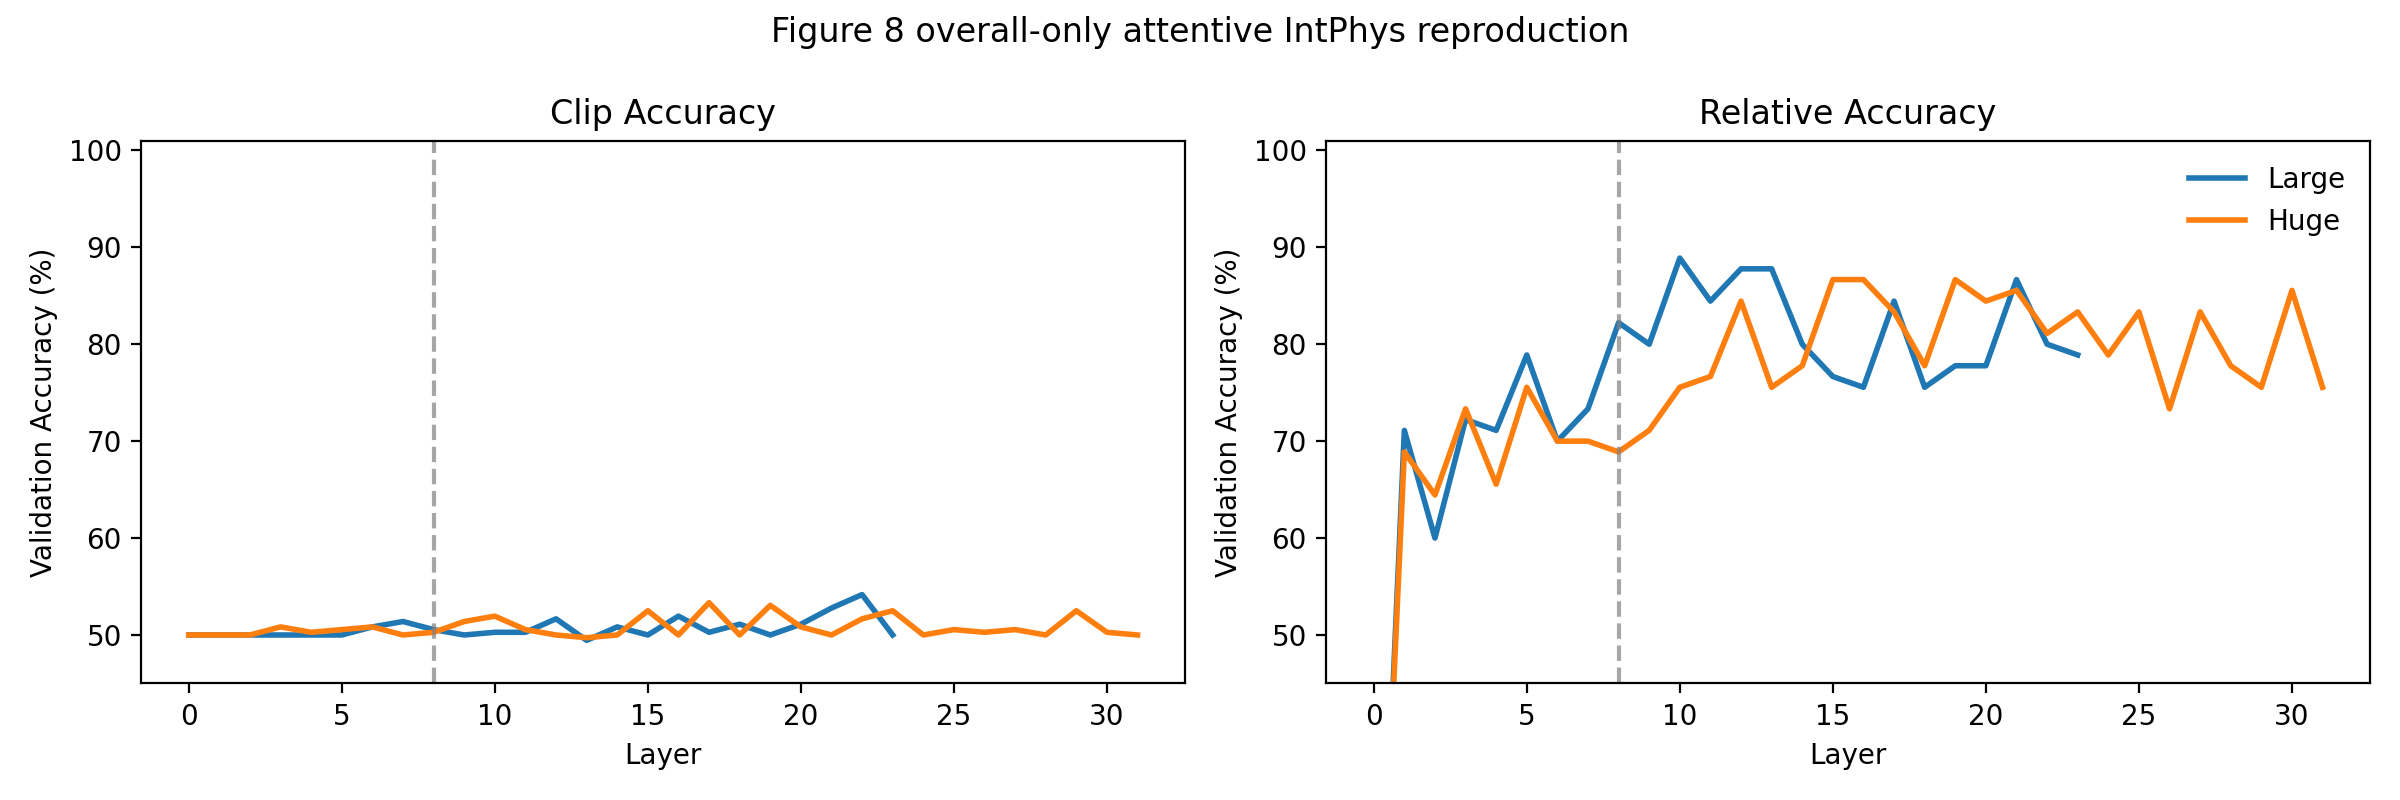
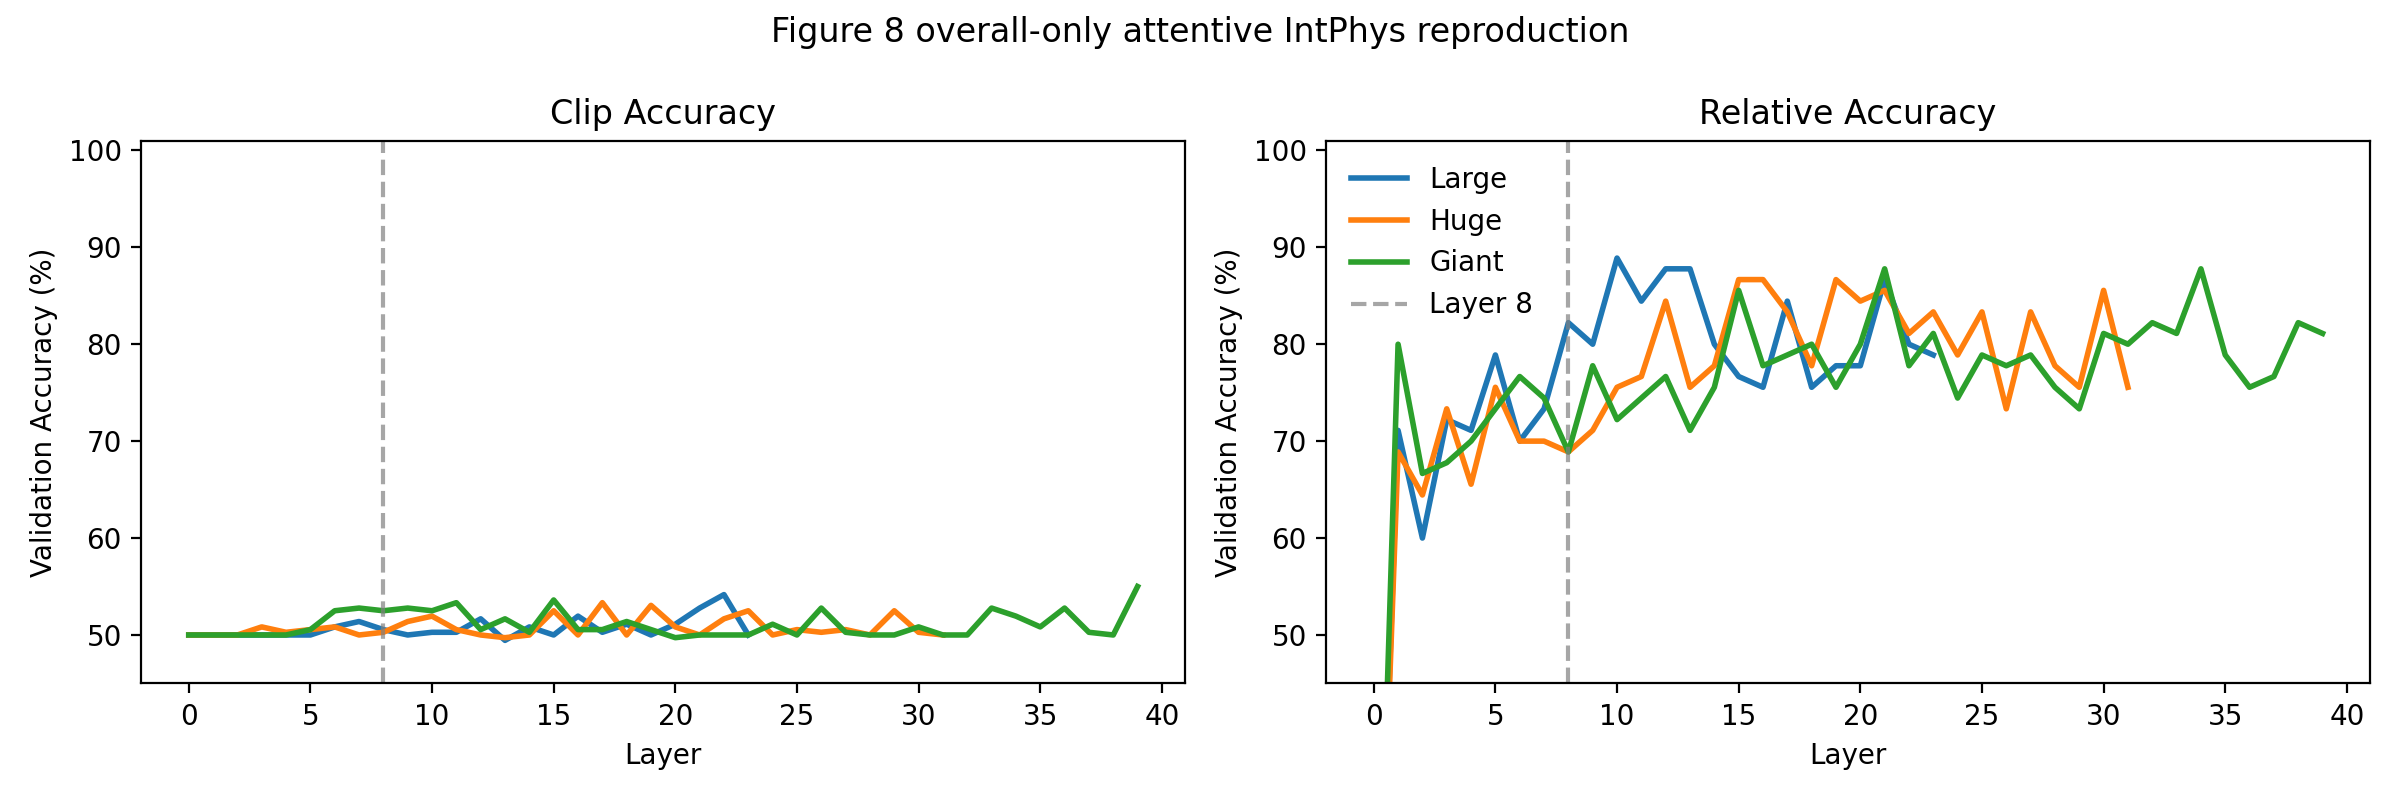
[STEP 8-D] Add Giant attentive results to Figure 8 overall reproduction

diff --git a/artifacts/results/figure8_verdict.md b/artifacts/results/figure8_verdict.md
@@ -1,14 +1,21 @@
 # Figure 8 Verdict
 
-Status: `overall-only attentive reproduction partially completed (Large/Huge complete; Giant still running or unavailable)`.
+Status: `overall-only attentive reproduction completed for Large/Huge/Giant`.
 
 Figure 8 in the paper reports full attentive-MLP results across model sizes. In local reproduction, we implemented a patch-preserving attentive probe on top of `temporal_last_patch` frozen features and evaluated the overall IntPhys possible/impossible task.
 
 ## Completed models
-- **Large**: relative acc `L0=0.0%`, `L8=82.2%`, peak `88.9% @ L10`, late `78.9%`, first `>=80% @ L8`
-- **Huge**: relative acc `L0=0.0%`, `L8=68.9%`, peak `86.7% @ L16`, late `75.6%`, first `>=80% @ L12`
+- **Large**: relative acc `L0=0.0%`, `L8=82.2%`, peak `88.9% @ L10`, late `78.9%`, first `>=80% @ L8`; clip acc `L0=50.0%`, `L8=50.6%`, peak `54.2%`
+- **Huge**: relative acc `L0=0.0%`, `L8=68.9%`, peak `86.7% @ L16`, late `75.6%`, first `>=80% @ L12`; clip acc `L0=50.0%`, `L8=50.3%`, peak `53.3%`
+- **Giant**: relative acc `L0=0.0%`, `L8=68.9%`, peak `87.8% @ L21`, late `81.1%`, first `>=80% @ L1`; clip acc `L0=50.0%`, `L8=52.5%`, peak `55.0%`
+
+## Interpretation
+- Large is the most paper-like: `L0=0`, `L8=82.2%`, peak `88.9%@L10`, first `>=80%@L8`.
+- Huge and Giant are weaker in this overall-only local reproduction, with onsets later than Layer 8 (`L12` for Huge, `L1` artifact for Giant due to an early spike but main peak late).
+- This should be interpreted as an overall-row partial match to paper Figure 8, not a full appendix-faithful recreation of every subtask panel.
 
 ## Outputs
 - [figure8_intphys_overall_compare.csv](/home/solee/pez/artifacts/results/figure8_intphys_overall_compare.csv)
 - [figure8_intphys_overall_compare.png](/home/solee/pez/artifacts/results/figure8_intphys_overall_compare.png)
-- Attentive per-model CSV/PNG/summary under `artifacts/results/results_figure8_intphys_*`
+- [figure8_verdict.md](/home/solee/pez/artifacts/results/figure8_verdict.md)
+- Per-model CSV/PNG/summary under `artifacts/results/results_figure8_intphys_*`
